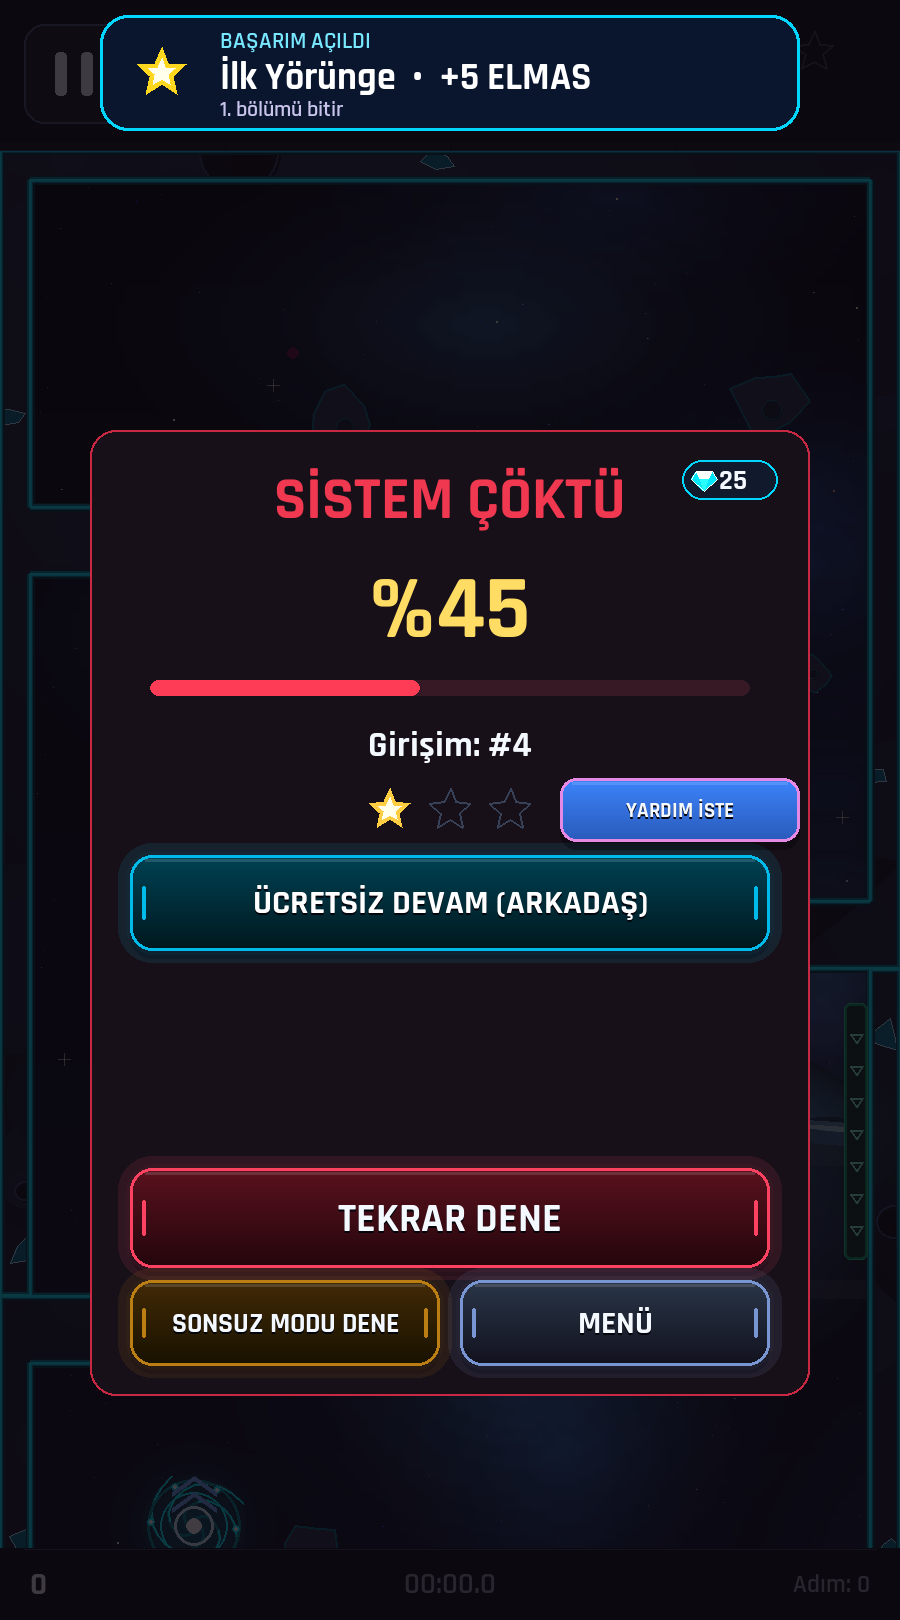
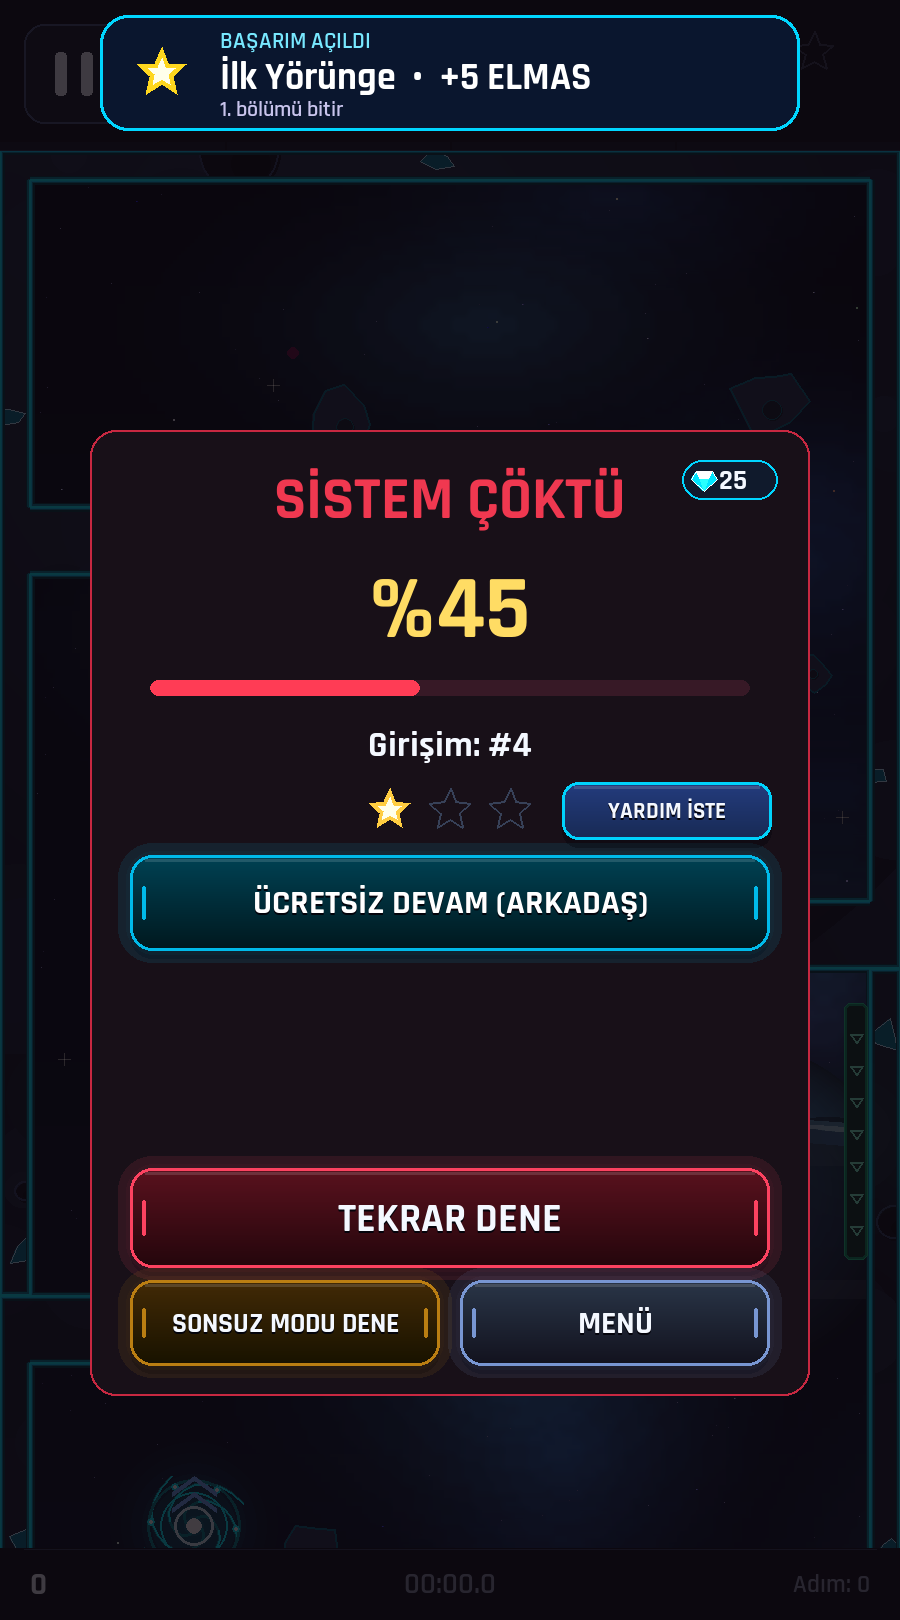
Failure screen: help button inside the card with the same outline as the other buttons

Changed region(s): [[0.6222, 0.463, 0.9022, 0.5247]]

diff --git a/ui.py b/ui.py
@@ -4226,8 +4226,8 @@ class FailureModal:
         cx = VW // 2
         top = VH // 2 - 380
         self.top = top
-        self.btn_help = Button((VW // 2 + 110, top + 348, 240, 64), "", 20, bg_color=(45, 95, 190), hover_color=(70, 125, 225),
-                               border_color=(230, 140, 230), callback=self._help)
+        self.btn_help = Button((VW // 2 + 112, top + 352, 210, 58), "", 22, bg_color=(26, 44, 84), hover_color=(40, 70, 130),
+                               border_color=(0, 214, 255), callback=self._help)        # inside the card, same cyan outline as the rest
         self.btn_revive = Button((cx - 320, top + 425, 640, 96), "", 32, bg_color=(0, 190, 235), hover_color=(60, 225, 255),
                                  text_color=(255, 255, 255), callback=self._revive)
         self.pack_buttons = []
@@ -4392,7 +4392,7 @@ class FailureModal:
         hs = self._help_state()
         if hs is not None:
             self.btn_help.text = t("fr_help_asked") if hs else t("fr_help_btn")
-            self.btn_help.bg_color = (60, 50, 70) if hs else (45, 95, 190)
+            self.btn_help.bg_color = (34, 36, 48) if hs else (26, 44, 84)
             self.btn_help.draw(surface)
         if self._ad_on():
             self.btn_ad.text = t("ad_continue_btn")
